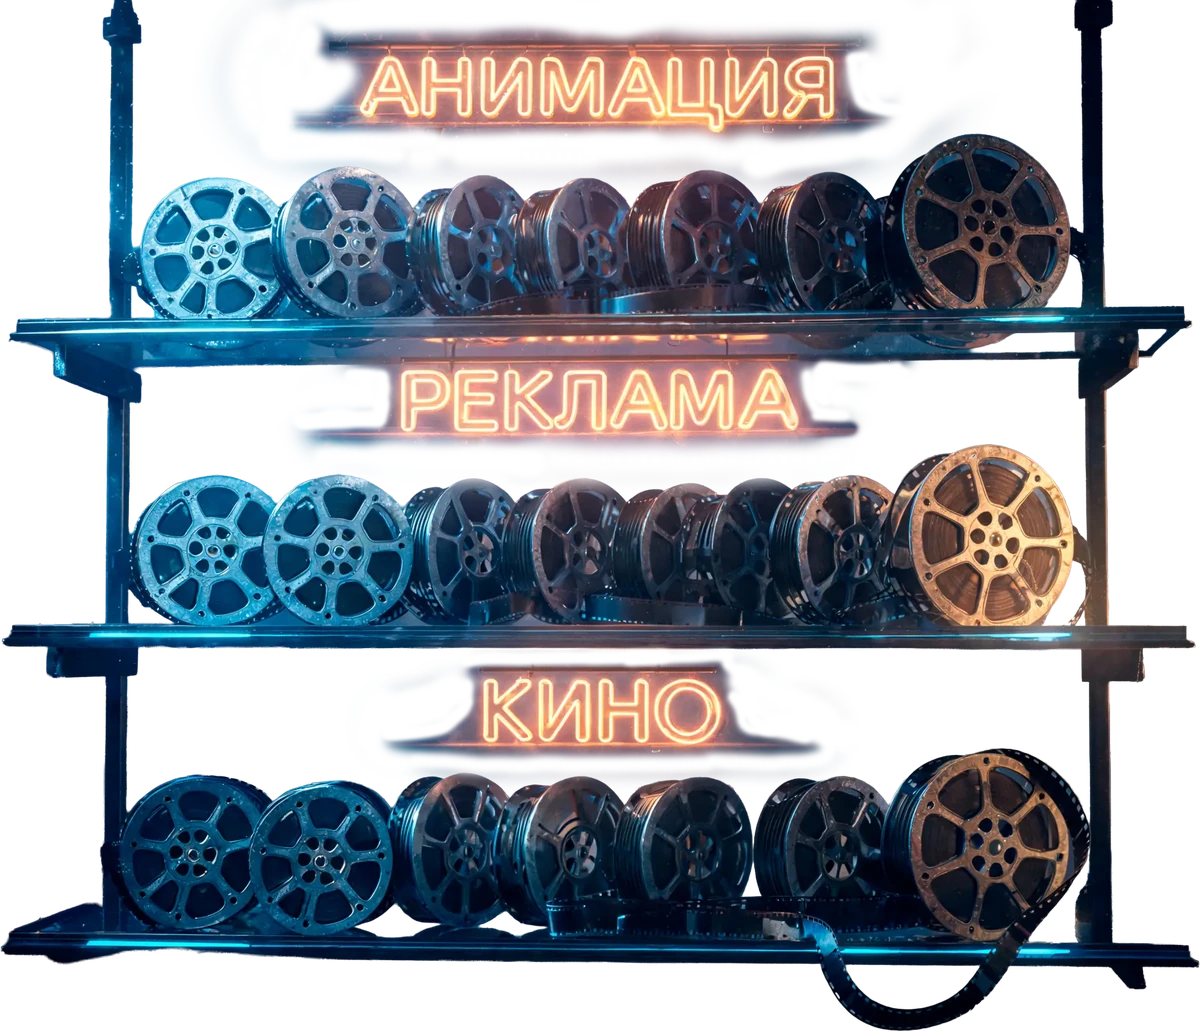
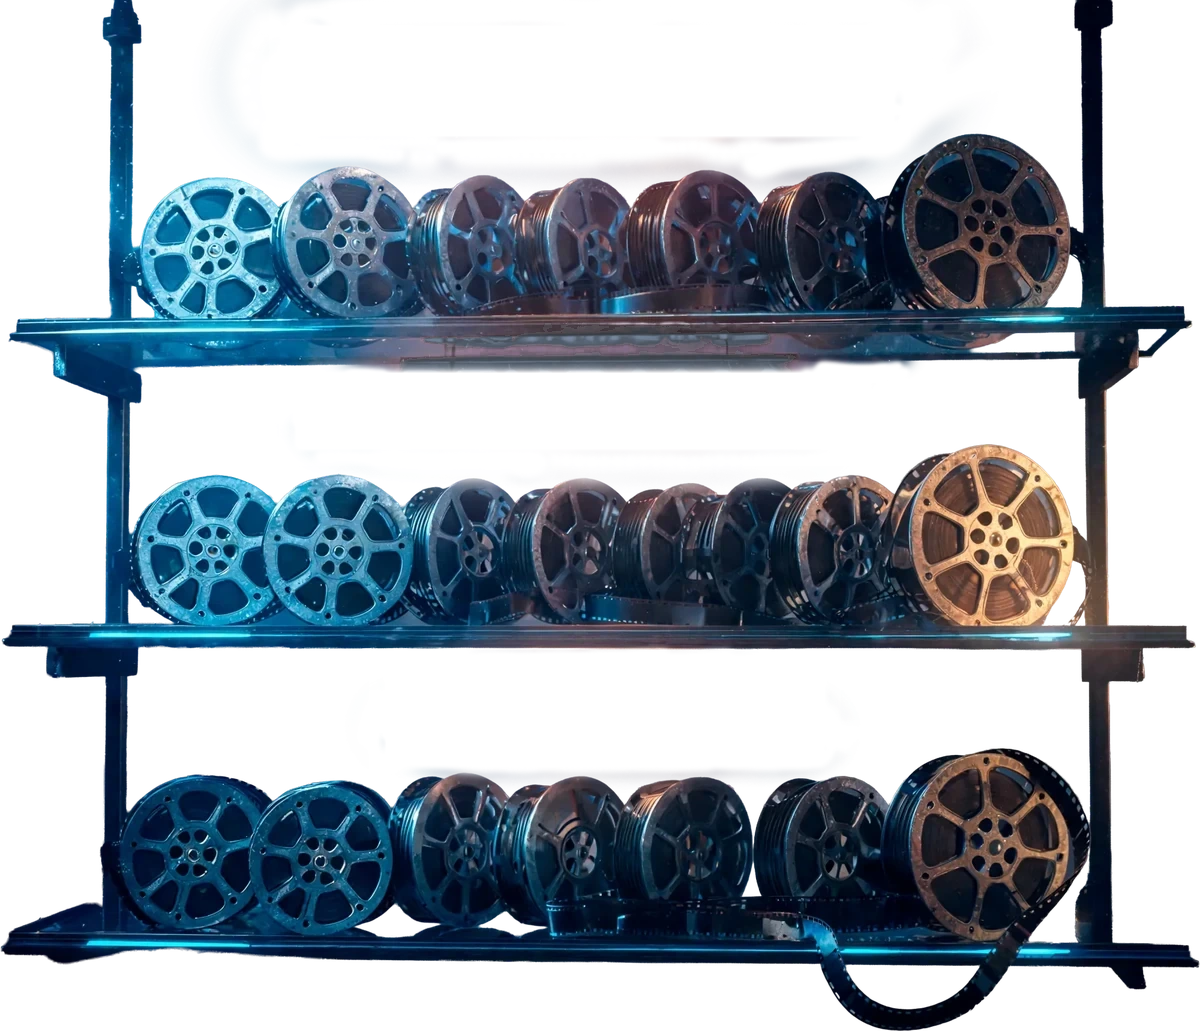
Стеллаж видео: мигающие неоновые вывески (#85)
* feat: second album on the Music page

- Album 2: four tracks converted from WAV (about 30 MB each) to VBR MP3 (about 3.5 MB each), cover as the sleeve; the title and track names are placeholders
- The fifth uploaded file was a byte-identical copy of the first, so it is not included
- Inactive sleeves are dimmed so the selected album stands out; the column loops only from three albums up

Claude-Session: https://claude.ai/code/session_01X7KSM4KdRvb3cH9kiQoQVN

* Music: genre tiles (rock, lounge, chillout, cinematic) filtering albums

Claude-Session: https://claude.ai/code/session_01X7KSM4KdRvb3cH9kiQoQVN

* Music: assign genres (Gothic Cello - cinematic, album 2 - chillout)

Claude-Session: https://claude.ai/code/session_01X7KSM4KdRvb3cH9kiQoQVN

* Browser Back closes works page/quiz instead of leaving the site (history state)

Claude-Session: https://claude.ai/code/session_01X7KSM4KdRvb3cH9kiQoQVN

* Music: genre shelf with record pull-out animation and playlist

Claude-Session: https://claude.ai/code/session_01X7KSM4KdRvb3cH9kiQoQVN

* Music shelf: blinking pink neon РОК sign (user PNG), clean glass plate

Claude-Session: https://claude.ai/code/session_01X7KSM4KdRvb3cH9kiQoQVN

* Music shelf: neon signs for all genres; shelf blurs/steps back instead of shrinking, large record in front

Claude-Session: https://claude.ai/code/session_01X7KSM4KdRvb3cH9kiQoQVN

* Music: spin the whole vinyl (label included) so rotation is visible
[…]

Changed region(s): [[0.2467, 0.0, 0.74, 0.1552], [0.2467, 0.3104, 0.74, 0.4345], [0.3083, 0.6208, 0.6783, 0.7449]]

diff --git a/museum-app/src/components/FilmShelf.jsx b/museum-app/src/components/FilmShelf.jsx
@@ -1,13 +1,14 @@
 import React from 'react'
+import NeonSign from './NeonSign'
 import './FilmShelf.css'
 
 const BASE = import.meta.env.BASE_URL
 
 // Three shelves of the film-reel rack. Positions are % of the picture (1200x1031).
 export const FILM_SHELVES = [
-  { id: 'animation', label: 'Анимация', top: 9, h: 27, seo: 'Анимация видео' },
-  { id: 'ads', label: 'Реклама', top: 41, h: 27, seo: 'Рекламные ролики' },
-  { id: 'cinema', label: 'Кино', top: 73, h: 25, seo: 'Кинематографические ролики' },
+  { id: 'animation', label: 'Анимация', top: 9, h: 27, neon: { left: 28, top: 4.3, width: 44 }, seo: 'Анимация видео' },
+  { id: 'ads', label: 'Реклама', top: 41, h: 27, neon: { left: 32.5, top: 35.6, width: 35 }, seo: 'Рекламные ролики' },
+  { id: 'cinema', label: 'Кино', top: 73, h: 25, neon: { left: 37.5, top: 65.3, width: 25 }, seo: 'Кинематографические ролики' },
 ]
 
 export const FILM_TITLES = { animation: 'Анимация', ads: 'Реклама', cinema: 'Кино' }
@@ -17,6 +18,14 @@ export default function FilmShelf({ counts, onChange }) {
     <nav className="film-shelf" aria-label="Категории видео">
       <div className="film-shelf__pic">
         <img src={`${BASE}film_shelf.webp`} alt="" draggable="false" />
+        {FILM_SHELVES.map((s) => (
+          <NeonSign
+            key={s.id}
+            className={`neon--film-${s.id}`}
+            src={`${BASE}film_neon_${s.id}.webp`}
+            style={{ left: `${s.neon.left}%`, top: `${s.neon.top}%`, width: `${s.neon.width}%` }}
+          />
+        ))}
         {FILM_SHELVES.map((s) => {
           const n = counts[s.id] || 0
           return (

diff --git a/museum-app/src/components/NeonSign.css b/museum-app/src/components/NeonSign.css
@@ -132,6 +132,40 @@
   --neon-c3: rgba(20, 70, 230, 0.6);
 }
 
+/* signs on the film rack: warm tubes, each with its own rhythm and phase */
+.neon--film-animation,
+.neon--film-ads,
+.neon--film-cinema {
+  --neon-g1: 1px;
+  --neon-g2: 5px;
+  --neon-g3: 16px;
+  --neon-halo-1: rgba(255, 140, 60, 0.3);
+  --neon-halo-2: rgba(220, 80, 20, 0.16);
+  --neon-c1: rgba(255, 225, 190, 0.95);
+  --neon-c2: rgba(255, 120, 40, 0.8);
+  --neon-c3: rgba(220, 70, 20, 0.55);
+}
+.neon--film-animation .neon__halo,
+.neon--film-ads .neon__halo,
+.neon--film-cinema .neon__halo {
+  inset: -80% -12%;
+}
+.neon--film-animation { --neon-cycle: 10s; --neon-delay: -2.6s; }
+.neon--film-ads {
+  --neon-cycle: 12s;
+  --neon-delay: -8.4s;
+  --neon-halo-1: rgba(255, 90, 60, 0.28);
+  --neon-c2: rgba(255, 85, 50, 0.8);
+  --neon-c3: rgba(220, 40, 20, 0.55);
+}
+.neon--film-cinema {
+  --neon-cycle: 9.5s;
+  --neon-delay: -5.5s;
+  --neon-halo-1: rgba(255, 175, 70, 0.28);
+  --neon-c2: rgba(255, 150, 40, 0.8);
+  --neon-c3: rgba(230, 100, 20, 0.55);
+}
+
 /*
  * 11s cycle of a tired tube: a faint hum all the time, one group of three quick blinks
  * around 30%, one pair of blinks around 79%. Never more than three flashes in a second.
